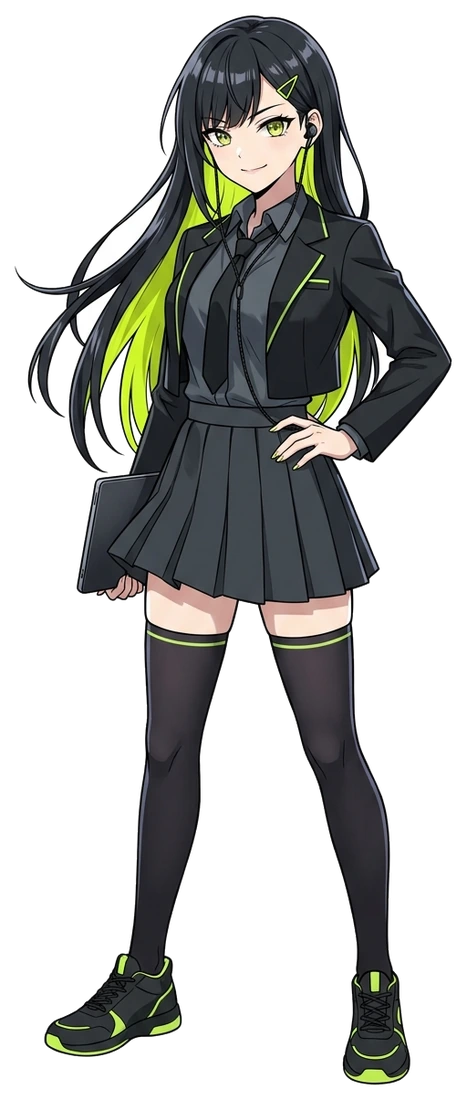
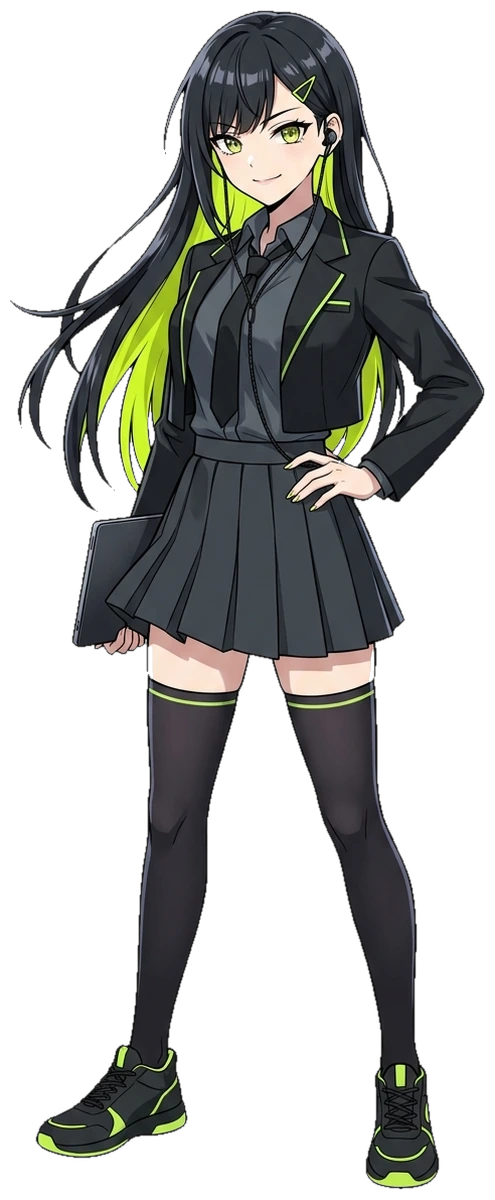
fix: clean enclosed white pockets and defringe hero-airi cutout, match hero text height

diff --git a/assets/styles.css b/assets/styles.css
@@ -657,12 +657,12 @@ body.light .hero-optical-beam { opacity: 0.56; }
   display: flex;
   align-items: flex-end;
   justify-content: center;
-  min-height: 400px;
+  min-height: 480px;
   pointer-events: none;
 }
 .hero-airi-glow {
   position: absolute;
-  inset: 18% 10% 6%;
+  inset: 14% 8% 6%;
   border-radius: 50%;
   background: radial-gradient(circle, rgba(212, 255, 0, 0.22) 0%, rgba(212, 255, 0, 0.04) 55%, transparent 75%);
   filter: blur(22px);
@@ -672,7 +672,7 @@ body.light .hero-optical-beam { opacity: 0.56; }
   position: relative;
   z-index: 1;
   width: auto;
-  height: clamp(360px, 46vh, 470px);
+  height: clamp(460px, 60vh, 560px);
   max-width: 100%;
   object-fit: contain;
   filter: drop-shadow(0 18px 34px rgba(0, 0, 0, 0.48));
